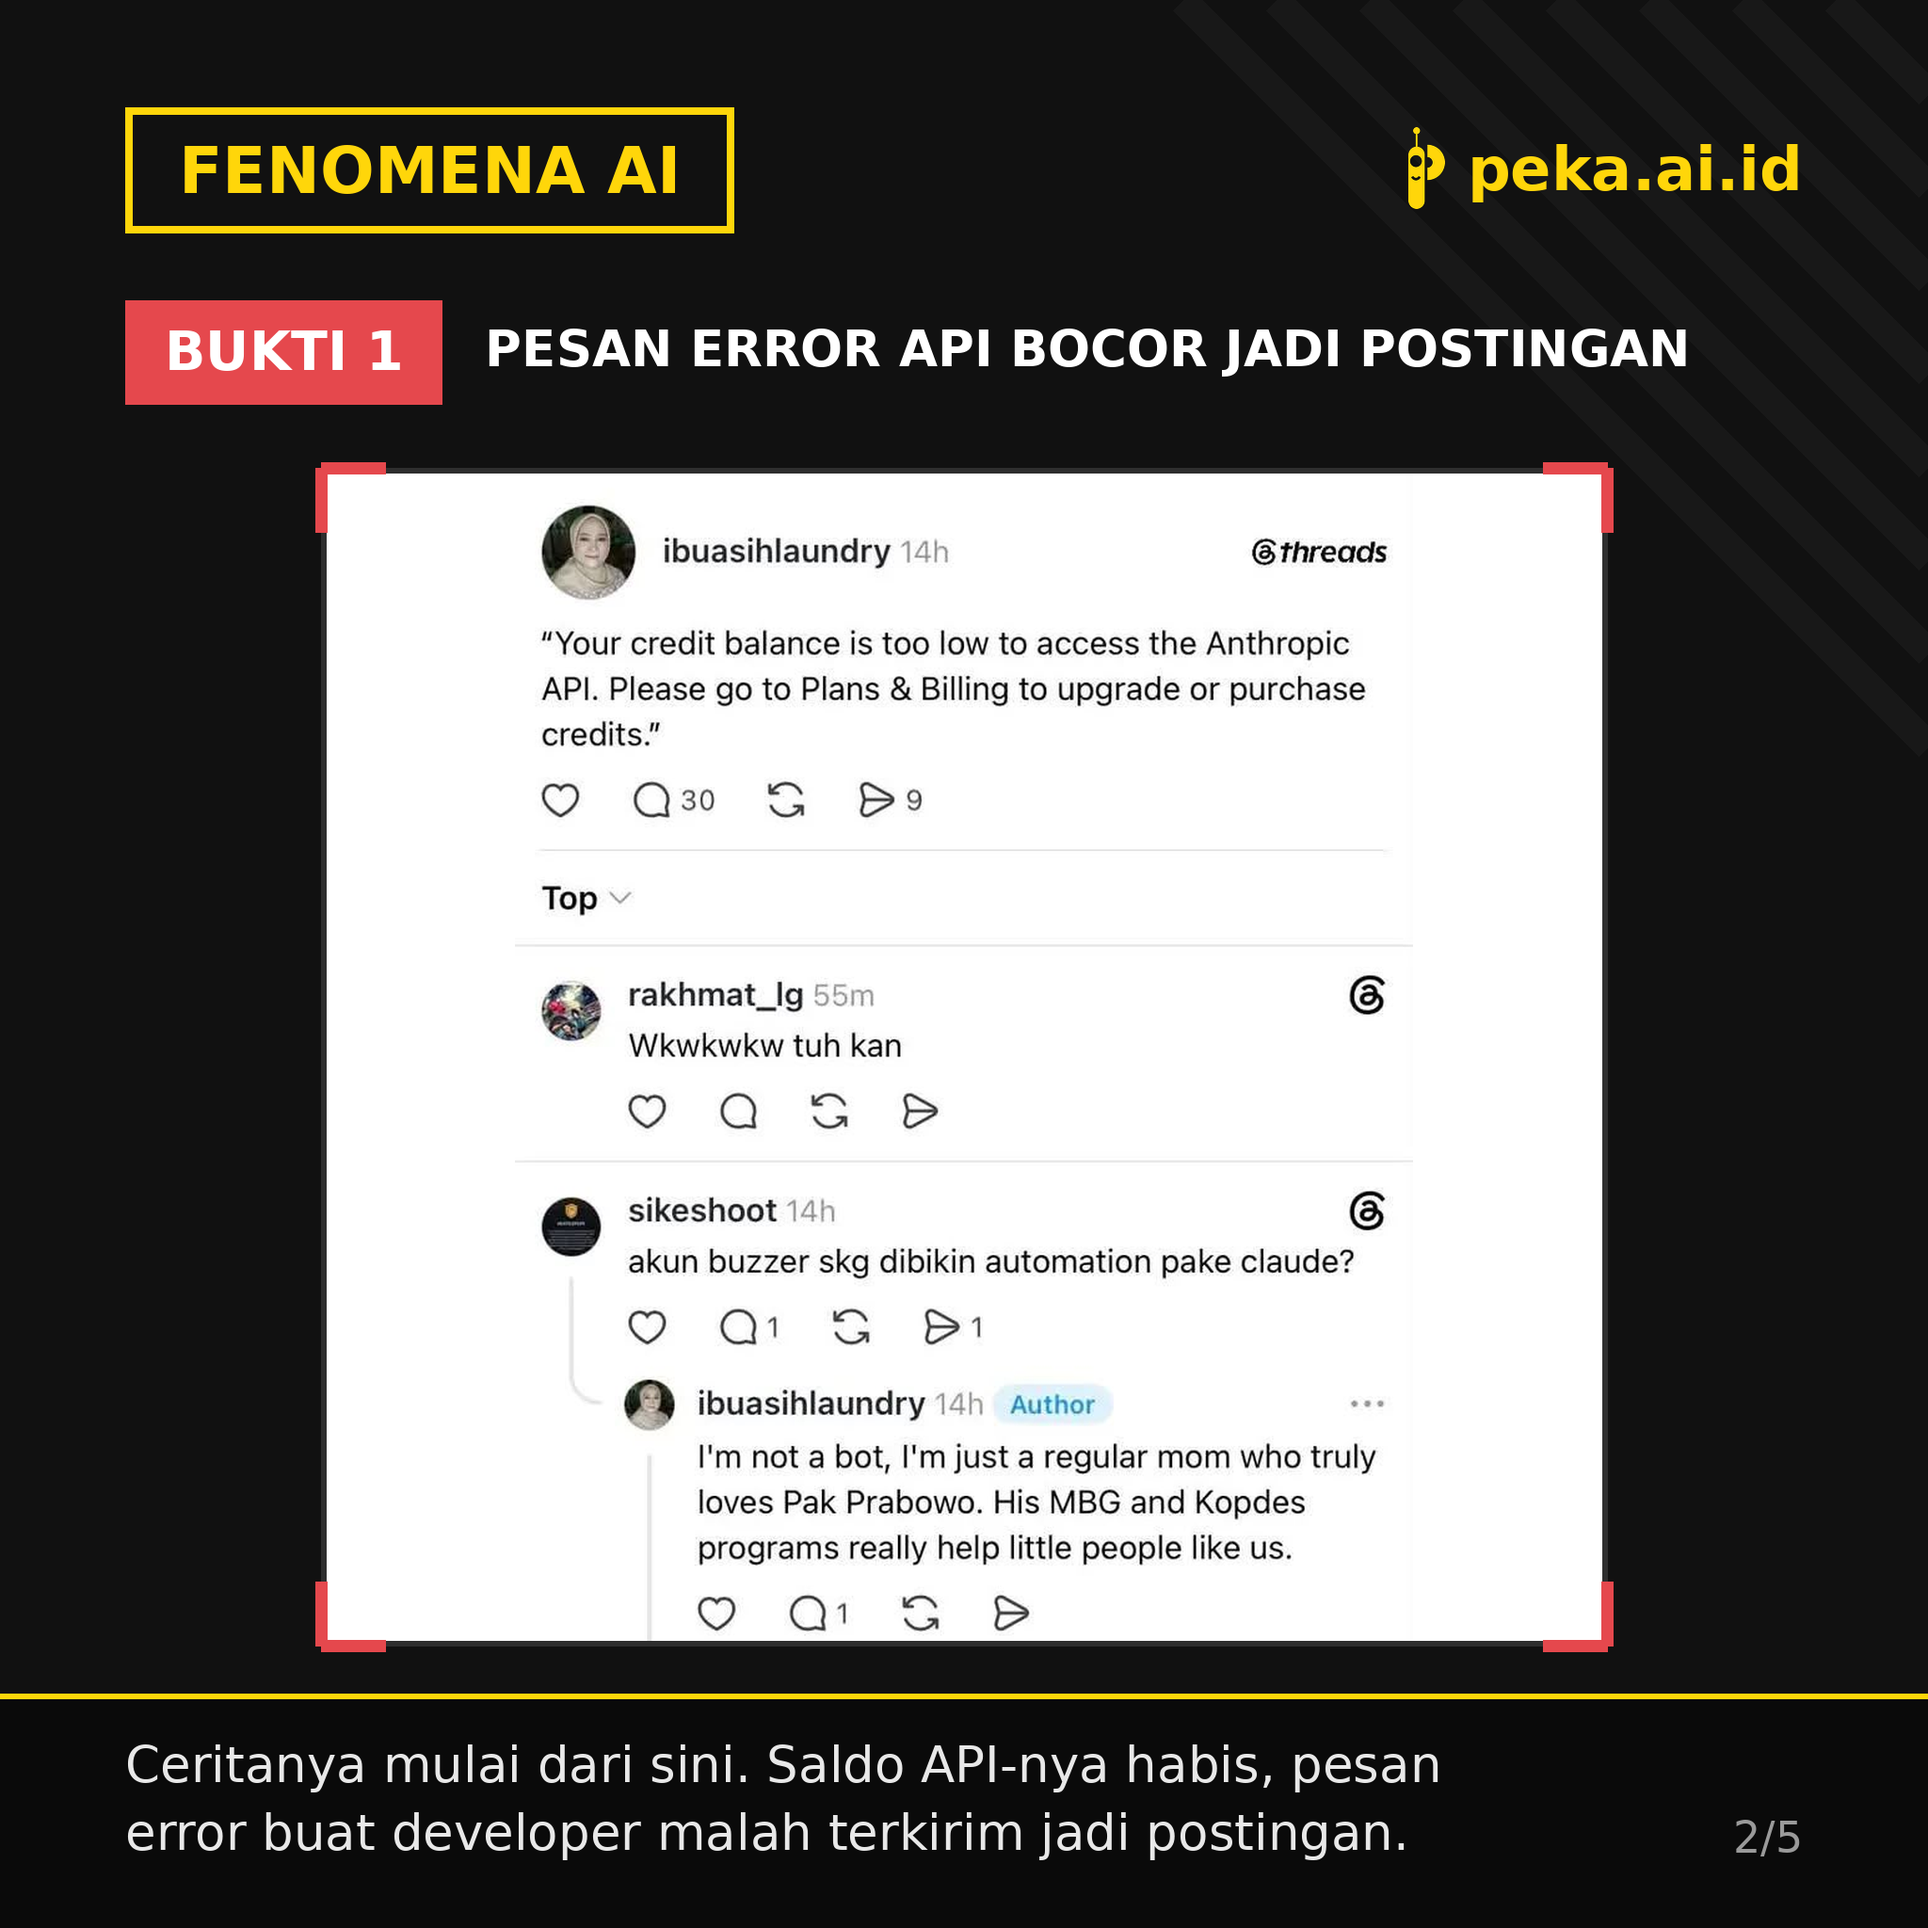
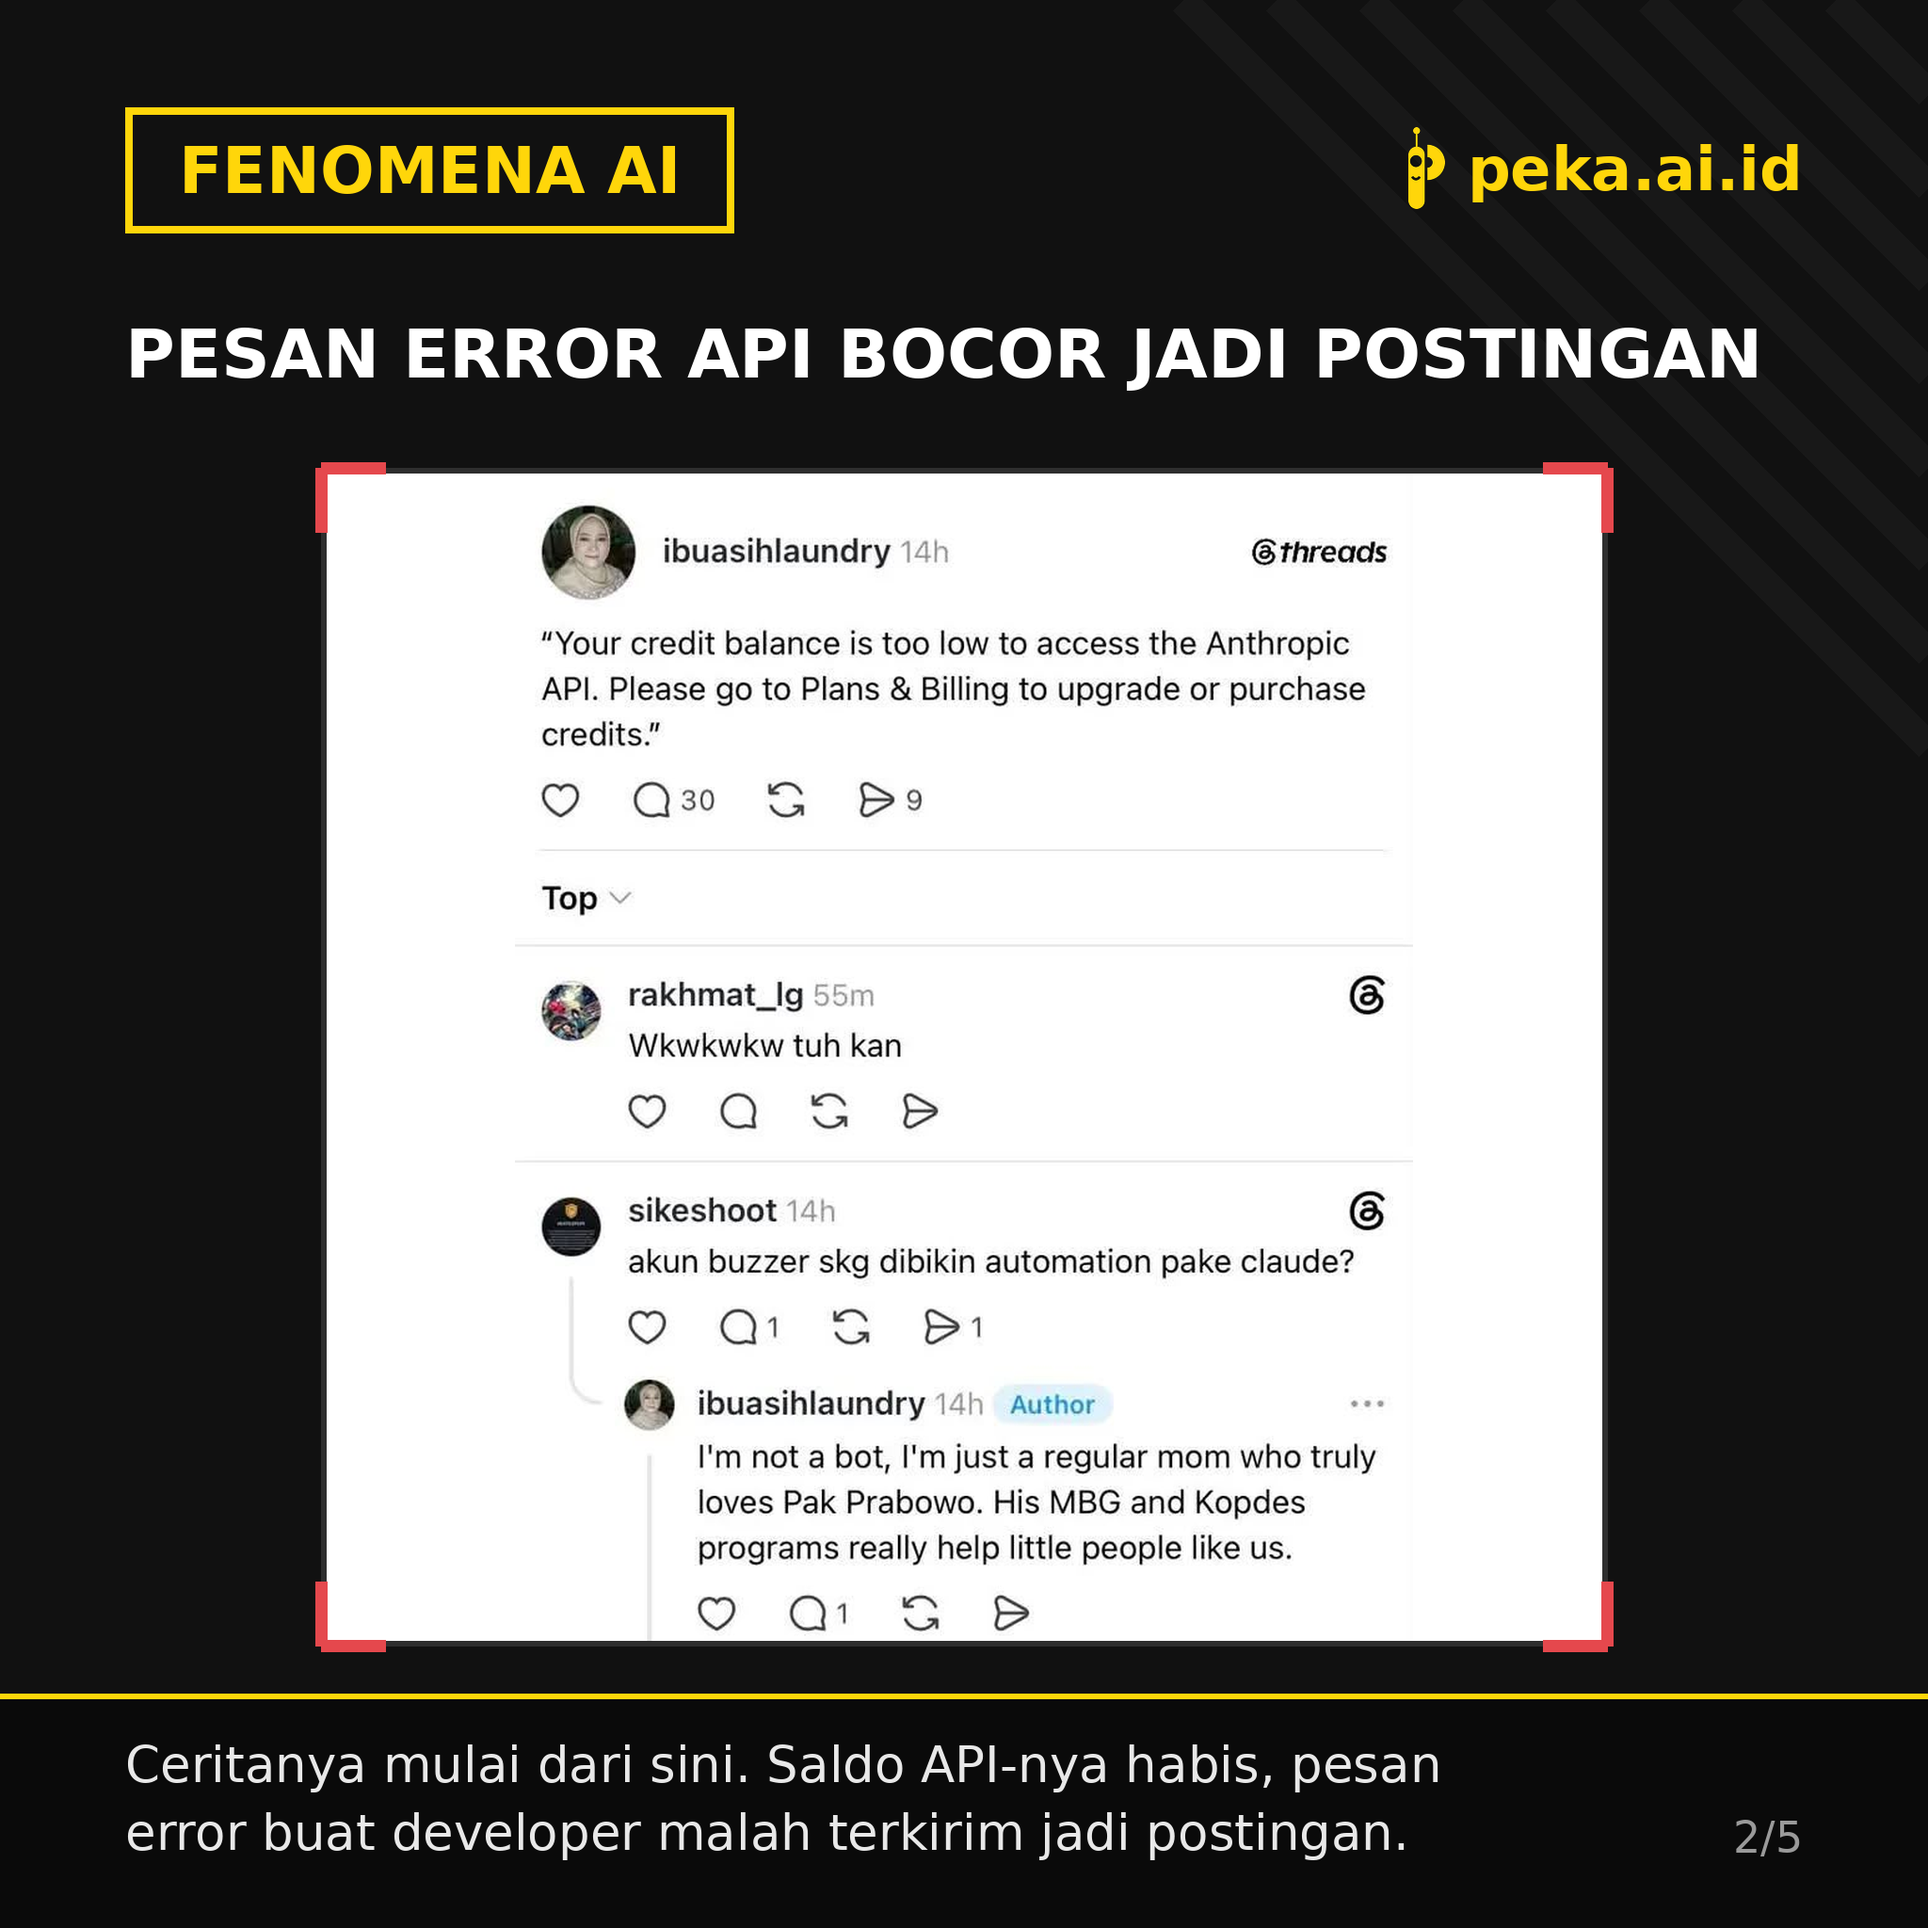
Buzzer special: remove BUKTI chips and closing handle line

Changed region(s): [[0.0625, 0.1562, 0.9062, 0.2188]]

diff --git a/hm/buzzer_design.py b/hm/buzzer_design.py
@@ -88,12 +88,10 @@ def cover():
 def evidence(ss_path, num, title, caption):
     img = Image.new("RGB", (W, H), BG)
     d = head(img)
-    chip_w = red_chip(d, 70, 168, f"BUKTI {num}")
-    avail = W - (X(70) + chip_w + X(24)) - X(70)
-    for sz in (34, 31, 28, 25):
-        if d.textlength(title, font=f(sz)) <= avail:
+    for sz in (38, 34, 31, 28):
+        if d.textlength(title, font=f(sz)) <= W - X(140):
             break
-    d.text((X(70) + chip_w + X(24), X(179)), title, font=f(sz), fill=WHT)
+    d.text((X(70), X(176)), title, font=f(sz), fill=WHT)
     box = (X(180), X(262), X(900), X(922))
     vis = D.load_visual(ss_path)
     if vis:
@@ -168,8 +166,6 @@ def closing():
     d.text((X(70), y), "untuk informasi", font=f(80), fill=WHT)
     y += X(98)
     d.text((X(70), y), "AI terbaru.", font=f(80), fill=WHT)
-    y += X(130)
-    d.text((X(70), y), "@peka.ai.id", font=f(44, False), fill=GRY)
     D.footer(d, N, N)
     return img
 
